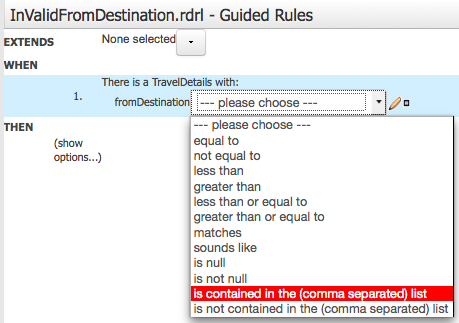
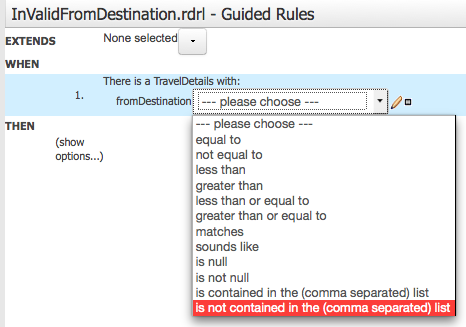
Finalized lab 03, fixed issue in lab 02.

diff --git a/bpms-labs/lab03.html b/bpms-labs/lab03.html
@@ -106,8 +106,8 @@
                 <section>
                     <h2>Complete the BPM process</h2>
                     <ul>
-                        <li>So where does our data for the rules (our facts) come from?</li>
-                        <li>How can we call rules without any facts, well in the main process we find the answer:</li>
+                        <li>So where does our data for the rules (our facts) come from? How can we call rules without any facts?</li>
+                        <li>In the main process we find the answer:</li>
                         <ul>
                             <li>the facts were put into memory (into a session) for us, in 'Prepare Data', before calling
                             the sub-process</li>
@@ -216,10 +216,11 @@
                 <section>
                     <h2>Complete the BPM process</h2>
                     <ul>
-                        <li>Next up is the discount rule that are provided as a decision table</li>
+                        <li>Next is discount rule, provided as a decision table</li>
                         <li>Let's look at this before we setup our rule task:</li>
                         <ul>
-                            <li>click on <code>Guided Decision Tables -> AdditionalTravelersDiscount</code> to view</li>
+                            <li><code>Guided Decision Tables -> AdditionalTravelersDiscount</code> and expand</li>
+                            <li>note options list <code>ruleflow-group: 'discount'</code></li>
                             <div style="float: right">
                                 <img src="images/bpms-workshop/image3-12.png" />
                             </div>
@@ -278,7 +279,7 @@
                 <section>
                     <h2>Complete the BPM process</h2>
                     <ul>
-                        <li>The validation rules are now used in <code>Apply Additional Travelers Discount</code></li>
+                        <li>The discount rules are now used in <code>Apply Additional Travelers Discount</code></li>
                         <ul>
                             <div style="float: right">
                                 <img src="images/bpms-workshop/image3-18.png" />
@@ -356,7 +357,7 @@
                 <section>
                     <h2>Complete the BPM process</h2>
                     <ul>
-                        <li>The validation rules are now used in <code>Calculate Total</code></li>
+                        <li>The total rules are now used in <code>Calculate Total</code></li>
                         <ul>
                             <div style="float: right">
                                 <img src="images/bpms-workshop/image3-25.png" />
@@ -365,20 +366,18 @@
                     </ul>
                 </section>
 
-
-<!-- TODO: final node Retract Facts to be done.... -->
                 <section>
                     <div style="width: 1056px; height: 150px">
                         <h2>Complete the BPM process</h2>
                     </div>
                     <div style="width: 1056px; height: 700px">
                         <ul>
-                            <li>Next up is the total price calculations as a technical rule</li>
-                            <li>Let's look at this before we setup our rule task:</li>
+                            <li>Next up are the retract rules, a set of guided rules to clean up all facts from the
+                                current session before we exit our sub-process.</li>
                             <ul>
-                                <li>to view click on <code>DRL -> CalculateTotalPriceOnDiscountProvided</code></li>
+                                <li>the rules are under <code>GUIDED RULES -> Retract*</code> (rules pre-fixed with Retract)</li>
                                 <div style="float: right">
-                                    <img src="images/bpms-workshop/image3-19.png" />
+                                    <img src="images/bpms-workshop/image3-26.png" />
                                 </div>
                             </ul>
                         </ul>
@@ -388,12 +387,12 @@
                 <section>
                     <h2>Complete the BPM process</h2>
                     <ul>
-                        <li>Back to the process, setup total calculation with a rule task:</li>
+                        <li>Back to the process, setup retract with a rule task:</li>
                         <ul>
-                            <li>click on <code>'Calculate Total'</code> to select</li>
+                            <li>click on <code>'Retract Facts'</code> to select</li>
                             <li>slide open <code>Properties</code> panel on the right</li>
                             <div style="float: right">
-                                <img src="images/bpms-workshop/image3-20.png" />
+                                <img src="images/bpms-workshop/image3-27.png" />
                             </div>
                         </ul>
                     </ul>
@@ -407,8 +406,8 @@
                             <li><code>Task Type: Business Rule</code></li>
                             <li>note the change to the node, a rule icon now identifies it</li>
                             <div style="float: right">
-                                <img src="images/bpms-workshop/image3-21.png" />
-                                <img src="images/bpms-workshop/image3-22.png" />
+                                <img src="images/bpms-workshop/image3-28.png" />
+                                <img src="images/bpms-workshop/image3-29.png" />
                             </div>
                         </ul>
                     </ul>
@@ -422,41 +421,89 @@
                         <ul>
                             <li>We need to set the following field:</li>
                             <ul>
-                                <li><code>Ruleflow Group: total</code></li>
-                                <li>open the pop-up editor, view the rules in <code>'total'</code>, select <code>total</code>, click on <code>Save</code></li>
+                                <li><code>Ruleflow Group: retract</code></li>
+                                <li>open the pop-up editor, view the rules in <code>'retract'</code>, select <code>retract</code>, click on <code>Save</code></li>
                             </ul>
                         </ul>
                     </div>
                     <div style="width: 1056px; height: 400px">
-                        <img width="49%" src="images/bpms-workshop/image3-23.png" />
-                        <img width="49%" src="images/bpms-workshop/image3-24.png" />
+                        <img width="49%" src="images/bpms-workshop/image3-30.png" />
+                        <img width="49%" src="images/bpms-workshop/image3-31.png" />
                     </div>
                 </section>
-
 
                 <section>
                     <h2>Complete the BPM process</h2>
                     <ul>
-                        <li>The validation rules are now used in <code>Calculate Total</code></li>
+                        <li>The retraction rules are now used in <code>Retract Facts</code></li>
                         <ul>
                             <div style="float: right">
-                                <img src="images/bpms-workshop/image3-25.png" />
+                                <img src="images/bpms-workshop/image3-32.png" />
                             </div>
                         </ul>
                     </ul>
                 </section>
 
-<!-- TODO: save process and ensure it builds to be done.... -->
+                <section>
+                    <h2>Complete the BPM process</h2>
+                    <ul>
+                        <li>The Calculate Price sub-process is now finished</li>
+                        <li>click on mini disk icon top right in designer, save, add commit message</li>
+                        <ul>
+                            <div style="float: right">
+                                <img src="images/bpms-workshop/image3-33.png" />
+                                <img src="images/bpms-workshop/image3-34.png" />
+                            </div>
+                        </ul>
+                    </ul>
+                </section>
 
+                <section>
+                    <h2>Complete the BPM process</h2>
+                    <ul>
+                        <li>Also note all <code>Message</code> errors at the bottom are gone</li>
+                        <li>click on refresh in the bottom pane, if still errors, correct them!</li>
+                        <ul>
+                            <div style="float: right">
+                                <img src="images/bpms-workshop/image3-35.png" />
+                            </div>
+                        </ul>
+                    </ul>
+                </section>
 
-
-
-
+                <section>
+                    <div  style="width: 1056px; height: 100px; float: right">
+                        <h2>Ensure project builds</h2>
+                    </div>
+                    <ul>
+                        <li>Before you build project, ensure there are no active deployments</li>
+                        <li><code>Deploy -> Process Deployments</code></li>
+                        <li>if exists an entry for <code>Special Trips Agency 2.0.0</code> then remove by clicking on mini icon <img src="images/bpms-workshop/image2-42.png" /></li>
+                    </ul>
+                    <div  style="width: 1056px; height: 500px; float: right">
+                        <img src="images/bpms-workshop/image2-40.png" />
+                        <img width="60%" src="images/bpms-workshop/image2-41.png" />
+                        <img src="images/bpms-workshop/image2-43.png" />
+                        <img width="60%" src="images/bpms-workshop/image2-44.png" />
+                    </div>
+                </section>
+                <section>
+                    <div  style="width: 1056px; height: 100px; float: right">
+                        <h2>Ensure project builds</h2>
+                    </div>
+                    <ul>
+                        <li>right pane -> <code>OPEN PROJECT EDITOR -> BUILD (top right) -> BUILD & DEPLOY</code></li>
+                        <li><code>(should see green pop-up 'Build Successful')</code></li>
+                    </ul>
+                    <div  style="width: 1056px; height: 500px; float: right">
+                        <img src="images/bpms-workshop/image3-36.png" />
+                    </div>
+                </section>
 
                 <section>
                     <h3>Building the Travel Agency</h3>
                     <h5>(next up, building JBoss Fuse microservices...)</h5>
-                    <img src="images/bpms-workshop/image2-46.png">
+                    <img src="images/bpms-workshop/image3-37.png">
                 </section>
 
                 <section data-background="images/jteimages/image42.png" data-background-position="top">

diff --git a/bpms-labs/lab02.html b/bpms-labs/lab02.html
@@ -172,7 +172,7 @@
                 <section>
                     <h2>Creating guided rules</h2>
                         <ul>
-                            <li>Select <code>'is contained in...'</code> from pull-down menu</li>
+                            <li>Select <code>'is not contained in...'</code> from pull-down menu</li>
                             <li>click on <code>pencil mini icon</code> and click on <code>'Literal value'</code> in pop-up</li>
                         </ul>
                     <div  style="width: 1056px; height: 500px; float: right">
@@ -471,7 +471,7 @@
                 <section>
                     <h2>Creating guided rules</h2>
                     <ul>
-                        <li>Select <code>'is contained in...'</code> from pull-down menu</li>
+                        <li>Select <code>'is not contained in...'</code> from pull-down menu</li>
                         <li>click on <code>pencil mini icon</code> and click on <code>'Literal value'</code> in pop-up</li>
                     </ul>
                     <div  style="width: 1056px; height: 500px; float: right">
